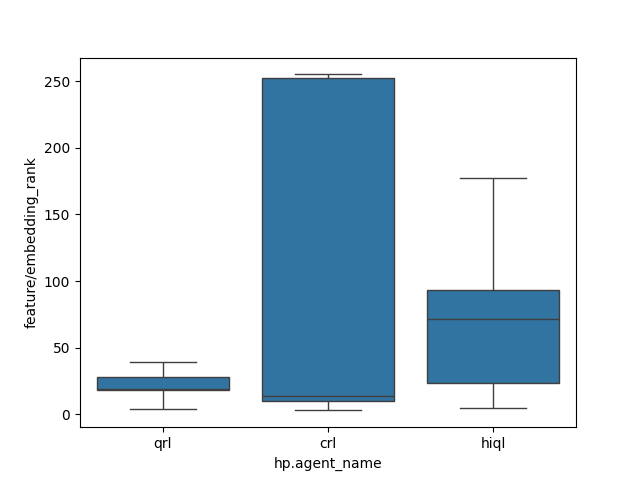
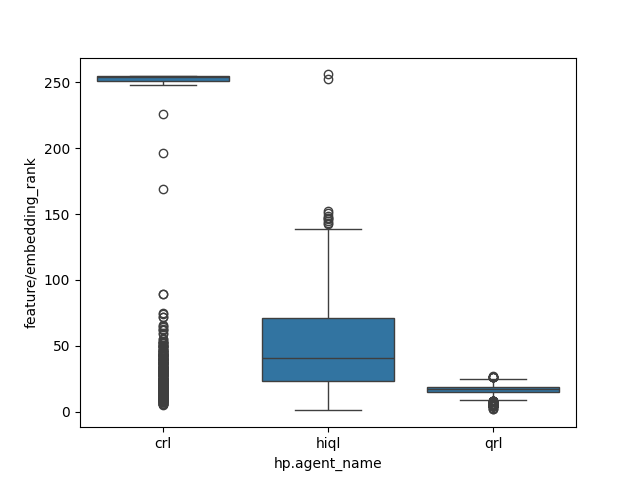
wip: feat(evaluation): grad interference plots for all groups

diff --git a/src/gcrl_landscapes/evaluation/tabular.py b/src/gcrl_landscapes/evaluation/tabular.py
@@ -789,8 +789,8 @@ if __name__ == "__main__":
     if not (args.hp_importance_data or args.convergence_data):
         merged_results_df, merged_training_df = load_or_compute(args.zipfiles, compute_merged_df)  # type: ignore
     if args.start_kernel:
-        from IPython import embed_kernel
-        embed_kernel()
+        from IPython import start_ipython
+        start_ipython()
 
     if args.hp_importance_data:
         create_importance_divergence_table(importance_df, args.output_folder)

diff --git a/evaluate.md b/evaluate.md
@@ -124,6 +124,7 @@ Capture this in a boxplot:
 
 ```python
 import seaborn as sns
+sns.set_theme(context="paper", style="whitegrid")
 import matplotlib.pyplot as plt
 merged_training_with_iqm_df["name_dataset_combination"] = merged_training_with_iqm_df["hp.agent_name"] + " - " + merged_training_with_iqm_df["dataset"]
 end_of_training_df = merged_training_with_iqm_df[merged_training_with_iqm_df["eval_step"] == merged_training_with_iqm_df.groupby(["hp.agent_name", "dataset"])["eval_step"].transform("max")]
@@ -190,7 +191,6 @@ bad_configs_df.groupby(["hp.agent_name"])["grad/value_cosine_similarity_quant0.2
 
 ```python
 merged_training_with_iqm_df.groupby(["hp.agent_name"])["grad/value_cosine_similarity_quant0.05"].describe()
-df_long[(df_long["variable"] == "grad/value_cosine_similarity")].groupby(["hp.agent_name", "quantile"])["value"].describe()
 ```
 
 ```python
@@ -216,101 +216,32 @@ df_long['quantile'] = df_long['column'].str.extract(r'quant([\d.]+)')[0].astype(
 df_long['variable'] = df_long['column'].str.replace(r'_?quant[\d.]+', '', regex=True)
 
 # Clean up
-df_long = df_long.drop('column', axis=1)
-# sns.lineplot(data=df_long[df_long["variable"] == "grad/value_cosine_similarity"], x="quantile", y="value", hue="hp.agent_name", errorbar=None, marker="o")
-#
-# # Normal distribution
-# quantiles = np.linspace(0, 1, 100)
-# import scipy.stats
-# values = scipy.stats.truncnorm(-1, 1, loc=0, scale=1).ppf(quantiles)
-# sns.lineplot(x=quantiles, y=values, color="black")
-#
-# plt.ylabel("Value-Function Cosine Similarity")
-# plt.title("Value-Function Cosine Similarity Quantiles Inside of Batch")
-# plt.savefig("grad_cosine_similarity_quantiles.png")
-# plt.close()
-#
-# fig, ax = plt.subplots()
-# # Construct PDF from quantiles
-# # TODO: all agents
-# df_long_filtered = df_long[(df_long["variable"] == "grad/value_cosine_similarity") & (df_long["hp.agent_name"] == "hiql")]
-# p = df_long[(df_long["variable"] == "grad/value_cosine_similarity") & (df_long["hp.agent_name"] == "qrl")]["value"].values
-# q = df_long[df_long["variable"] == "grad/value_cosine_similarity"]["quantile"].values
-# df_q = df_long_filtered.groupby(["quantile"])["value"].mean()
-# p = df_q.index
-# q = df_q.values
-# print(p)
-# print(q)
-# x_vals = []
-# pdf_vals = []
-#
-# for i in range(len(p) - 1):
-#     x_segment = (q[i] + q[i+1]) / 2
-#     pdf_segment = (p[i+1] - p[i]) / (q[i+1] - q[i])
-#     x_vals.append(x_segment)
-#     pdf_vals.append(pdf_segment)
-#
-# x = np.array(x_vals)
-# pdf = np.array(pdf_vals)
-# sns.lineplot(x=x, y=pdf)
-# plt.xlim(-1, 1)
-# plt.ylim(0, 2)
-# plt.savefig("test.png")
-#
-#
-# plt.close()
-#
+df_long = df_long.drop('column', axis=1).rename(columns={"hp.agent_name": "Algorithm"})
+df_long["Algorithm"] = df_long["Algorithm"].str.upper()
+```
 
-# Calculate densities for each interval
-# density = ΔP / Δx
-fig, ax = plt.subplots()
-# prob_changes = np.diff(p)
-# value_changes = np.diff(q)
-# densities = prob_changes / value_changes
-# x_points = (q[:-1] + q[1:]) / 2
+```python
+def plot_cdf(df: pd.DataFrame, name: str) -> None:
+  import matplotlib.pyplot as plt
+  import seaborn as sns
+  fig, ax = plt.subplots(figsize=(3.5, 2.5))
+  # print(df_long[["hp.agent_name", "quantile", "value"]].groupby(["hp.agent_name", "quantile"]).describe())
+  ax = sns.lineplot(data=df, x="value", y="quantile", hue="Algorithm", errorbar=None)
 
-# For plotting, we need the density at each quantile point
-# x_plot = np.linspace(q.min(), q.max(), 1000)
-# y_plot = np.interp(x_plot, q, p)
-# print(len(x_plot))
-# print(len(y_plot))
-sns.set_theme(context="paper", style="whitegrid")
-fig, ax = plt.subplots(figsize=(3.5, 2.5))
-# print(df_long[["hp.agent_name", "quantile", "value"]].groupby(["hp.agent_name", "quantile"]).describe())
-mean_df = df_long[df_long["variable"] == "grad/value_cosine_similarity"].groupby(["hp.agent_name", "quantile"])["value"].mean().reset_index()
-mean_df = mean_df.rename(columns={"hp.agent_name": "Algorithm"})
-mean_df["Algorithm"] = mean_df["Algorithm"].str.upper()
-ax = sns.lineplot(data=mean_df, x="value", y="quantile", hue="Algorithm", errorbar=None)
+  plt.xlim(-1, 1)
+  plt.ylim(0, 1)
+  plt.title("Inter-Goal Gradient Alignment")
+  plt.xlabel("Gradient Cosine Similarity")
+  plt.ylabel("Cumulative Probability")
+  plt.tight_layout()
+  plt.savefig(f"plots/gradient-alignment-cdf-{name}.png", dpi=1200)
 
-# # Overlay normal distribution
-# x = np.linspace(-1, 1, 200)  # fine-grained x-values
-# y = scipy.stats.norm(loc=0.075, scale=0.4).cdf(x)  # normal PDF with mean/std from your data
-# plt.plot(x, y, color='red', linestyle='--', label='Normal fit')
-#
-# # Overlay uniform distribution
-# x = np.linspace(-1, 1, 200)  # fine-grained x-values
-# y = scipy.stats.uniform(loc=-1, scale=2).cdf(x)  # uniform PDF with mean/std from your data
-# plt.plot(x, y, color='blue', linestyle='--', label='Uniform fit')
+  plt.close()
 
-plt.xlim(-1, 1)
-plt.ylim(0, 1)
-plt.title("Inter-Goal Gradient Alignment")
-plt.xlabel("Gradient Cosine Similarity")
-plt.ylabel("Cumulative Probability")
-plt.tight_layout()
-plt.savefig("gradient-alignment-cdf.png", dpi=1200)
 
-plt.close()
-
-# fig, ax = plt.subplots()
-# quantiles = np.linspace(0, 1, 100)
-# import scipy.stats
-# values = scipy.stats.norm.ppf(quantiles)
-# sns.lineplot(x=np.linspace(-1, 1, 100), y=scipy.stats.norm().cdf(np.linspace(-1, 1, 100)))
-# plt.xlim(-1, 1)
-# plt.ylim(0, 1)
-# plt.savefig("test.png")
-# plt.close()
+plot_cdf(df_long[df_long["variable"] == "grad/value_cosine_similarity"].groupby(["Algorithm", "quantile"])["value"].mean().reset_index(), "antmaze-medium-all")
+for name, group in df_long[df_long["variable"] == "grad/value_cosine_similarity"].groupby(["dataset"]):
+  plot_cdf(group.groupby(["Algorithm", "quantile"])["value"].mean().reset_index(), name)
 
 ```
 
